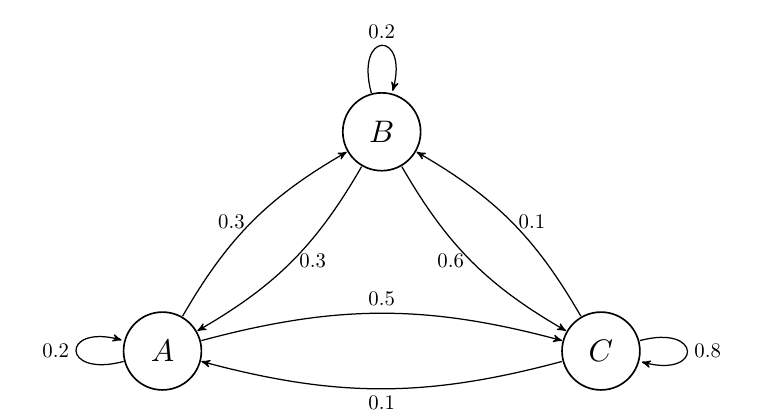
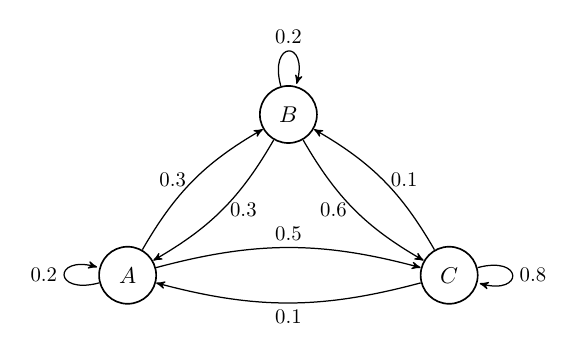
fix image in info theory

diff --git a/articles/bht/information-theory/index.html b/articles/bht/information-theory/index.html
@@ -140,7 +140,7 @@
                     Here is a diagram.
                     <br>
                     <img src="com-scheme.png" alt="Diagram of a communication
-                    system">
+                    system" class="center">
                 </p>
 
                 <p>

diff --git a/articles/bht/information-theory/markov.tex b/articles/bht/information-theory/markov.tex
@@ -6,7 +6,7 @@
 
 \begin{center}
 \begin{tikzpicture}[->, >=stealth', auto, semithick, node distance=3.5cm]
-\tikzstyle{every state}=[fill=white,draw=black,thick,text=black,scale=1.5]
+\tikzstyle{every state}=[fill=white,draw=black,thick,text=black,scale=1.1]
 \node[state]    (A)                     {$A$};
 \node[state]    (B)[above right of=A]   {$B$};
 \node[state]    (C)[below right of=B]   {$C$};
